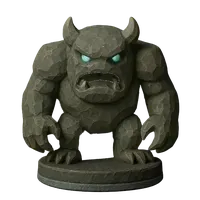
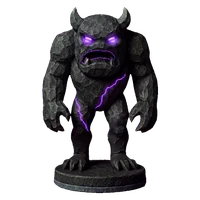
v1.90.29: Fünf Großmeister in neuer Fassung – Koloss, Kanonier, Blutmagd, Seuchenkönig, Eisenfaust
Sie standen am Brett bei 67–73 % der Offiziere und trugen kaum Akzente. Alle
fünf vom Besitzer am 4.10. freigegeben („sonst sind alle gut“), jede erst
gezeigt, dann eingebaut.

- Koloss (67 → 97 %): dunkler Stein, violett leuchtende Risse, beide Augen im
  selben Violett – das rechte ist das gespiegelte linke („genau gleich“). Das
  Freistellen auf Magenta hatte ein Auge und einen Riss im Oberschenkel
  herausgefressen; beides ist im Freisteller nachgezogen.
- Kanonier (71 → 87 %): helles Eisen „wie Eisenfaust“, das Kanonenloch glüht.
  Das Eisen spiegelte den Farbgrund, freistellen.py fraß Sockel und Finger an
  (auf Magenta wie auf Grün) – darum eigene Maske, Stich herausgerechnet,
  9 % über dem Sockel gestreckt.
- Blutmagd (68 → 93 %): dieselbe rote Schlange, aufgerichtet („darf nicht
  aussehen wie ein Mensch“), 10 % gestreckt.
- Seuchenkönig (73 → 95 %): Kapuzengestalt statt Schnabelschlange – kein
  Gesicht, nur grüne Augen, brauner zerfetzter Mantel, Stab. Sechs Anläufe;
  getragen hat erst der mit UNSEREM MAGIER als Vorlage („schau dir mal die
  Figuren an wie sie sind … so muss es werden“). Mehrere Änderungen in einem
  Auftrag hatten den Stil jedes Mal zerstört.
- Eisenfaust (68 → 100 %): aufrecht, Faust aus Eisen, Körper wie glühendes
  Metall.

Akzente folgen der Figur (Kartenhintergrund): Koloss #94a3b8 → #a855f7,
Kanonier #ffd166 → #a3adb8. Sockel einzeln gemessen; bei Kanonier (50) und
[…]

diff --git a/src/content/bosses.js b/src/content/bosses.js
@@ -124,7 +124,7 @@ export const BOSSES = [
      und der Waechter (b01, alle acht Richtungen) bleibt klar der andere. */
   B("b06", "Das Bollwerk",     "The Bulwark",     "golem",   "#9aa5b7", 21, 3, { slides: ORTHO, range: 1 }, { flavorDe: "Man baute es, um etwas fernzuhalten. Niemand weiß mehr, was — es selbst weiß es noch.", flavorEn: "It was built to keep something out. No one remembers what — it still does.", abilities: ["steinhaut", "widerhall", "unsterblich", "schrecken"] }),  // 18->11: Kapitel-I-Grenze (12 Schlaege atk-2)
   B("b07", "Der Geist",        "The Ghost",       "wraith",  "#7dd3fc",  15, 9, { leaps: RING2 }, { flavorDe: "Er ist der Rest eines Eides, der nicht sterben durfte, ehe er erfüllt war.", flavorEn: "He is the remnant of an oath that was not allowed to die before it was kept.", abilities: ["blenden"] }),  // Glaskanone, jetzt fluechtig
-  B("b08", "Kanonier",         "Cannoneer",       "golem",   "#ffd166", 16, 8, { slides: ORTHO, range: 3 }, { flavorDe: "Er zählt bis drei und die Mauer fällt; er hat nie weiter zählen müssen.", flavorEn: "He counts to three and the wall falls; he has never needed to count further.", aura: { type: "courtHp", n: 2 }, abilities: ["wegelagerei", "steinhaut", "schrecken", "blenden", "widerhall"] }),  // 10->9
+  B("b08", "Kanonier",         "Cannoneer",       "golem",   "#a3adb8", 16, 8, { slides: ORTHO, range: 3 }, { flavorDe: "Er zählt bis drei und die Mauer fällt; er hat nie weiter zählen müssen.", flavorEn: "He counts to three and the wall falls; he has never needed to count further.", aura: { type: "courtHp", n: 2 }, abilities: ["wegelagerei", "steinhaut", "schrecken", "blenden", "widerhall"] }),  // 10->9
   B("b09", "Skorpion",         "Scorpion",        "serpent", "#c9a24a",  16, 8, { leaps: [...sym(2, 2), ...ORTHO] }, { flavorDe: "Sein Stich schmerzt nicht sofort — das ist das Heimtückische daran.", flavorEn: "His sting does not hurt at once — that is the treachery of it.", abilities: ["gift", "aderlass", "schrecken"] }),
   B("b10", "Doppelritter",     "Twin Knight",     "beast",   "#3d9bff", 19, 5, { leaps: [...KNIGHT, ...KING] }, { flavorDe: "Zwei Köpfe, ein Wille: Wo einer täuscht, beißt der andere.", flavorEn: "Two heads, one will: where one feints, the other bites.", aura: { type: "wardAdj" }, abilities: ["wegelagerei", "blenden", "aderlass"] }),
   B("b11", "Die Flüsterin",    "The Whisperer",   "wraith",  "#c4b5fd",  20, 4, { slides: KING, range: 1, spawn: { max: 1 } }, { flavorDe: "Sie spricht mit dem Riss, und der Riss antwortet in Dingen, die dann geschehen.", flavorEn: "She speaks with the rift, and the rift replies in things that then come to pass.", abilities: ["geistwandel", "gift"] }),  // spawn 3->2: Blink + Brut kombinierte auf +19 Feldwirkung; HP-Senkung war wirkungslos (sie steht hinten), die Brut ist der Hebel
@@ -142,7 +142,7 @@ export const BOSSES = [
      Flaechen tragen die doppelte Leuchtdichte (umfaerben.py ... 1.0 2.0),
      Figurfarbe nachgemessen #2f439e. */
   B("b13", "Brandstifter",     "Firestarter",     "serpent", "#ff5a1f",  14, 10, { slides: DIAG }, { flavorDe: "Er sammelt keine Beute; er hinterlässt nur Asche, ordentlich verteilt.", flavorEn: "He gathers no spoils; he leaves only ash, evenly spread.", abilities: ["aderlass", "gift"] }),  // scharf, aber glas
-  B("b14", "Der Koloss",       "The Colossus",    "golem",   "#94a3b8", 21, 3, { slides: ORTHO, range: 2, leaps: DIAG }, { flavorDe: "Er trägt die Rüstung nicht — er ist sie, bis hinunter zum Herzen aus Stein.", flavorEn: "He does not wear the armour — he is it, down to the heart of stone.", aura: { type: "grant", id: "bulwark" }, abilities: ["steinhaut", "unsterblich", "widerhall", "schrecken", "aderlass"] }),  // seine AURA ist die Gabe: Eigenpanzer + Panzer-Aura kaskadierte in der Sim (+77 Feldwirkung)
+  B("b14", "Der Koloss",       "The Colossus",    "golem",   "#a855f7", 21, 3, { slides: ORTHO, range: 2, leaps: DIAG }, { flavorDe: "Er trägt die Rüstung nicht — er ist sie, bis hinunter zum Herzen aus Stein.", flavorEn: "He does not wear the armour — he is it, down to the heart of stone.", aura: { type: "grant", id: "bulwark" }, abilities: ["steinhaut", "unsterblich", "widerhall", "schrecken", "aderlass"] }),  // seine AURA ist die Gabe: Eigenpanzer + Panzer-Aura kaskadierte in der Sim (+77 Feldwirkung)
   B("b15", "Die Sturmklaue",   "The Stormclaw",   "beast",   "#38bdf8",  16, 8, { leaps: [...CAMEL, ...sym(0, 3)] }, { flavorDe: "Sie kommt mit dem Wetter und geht mit ihm; dazwischen liegt der Schaden.", flavorEn: "She comes with the weather and leaves with it; the damage lies between.", abilities: ["blenden", "wegelagerei"] }),
   B("b16", "Die Blutmagd",     "The Bloodmaid",   "serpent", "#fb7185", 17, 7, { slides: KING, range: 1, leaps: [[0, 2], [0, -2]] }, { flavorDe: "Aus dem Lazarett verschwand erst der Aderlass, dann die Magd. Was der Riss aus ihr machte, windet sich noch immer um sein Werk.", flavorEn: "First the bloodletting vanished from the infirmary, then the maid. What the Rift made of her still coils around its work.", aura: { type: "grant", id: "lifesteal" }, abilities: ["gift", "aderlass", "unsterblich", "schrecken"] }),
   B("b17", "Lanzenmeister",    "Lancemaster",     "tyrant",  "#eab308", 19, 5, { leaps: [...sym(0, 2), ...KING] }, { flavorDe: "Zehntausend Stöße, jeden Morgen; der elfte gilt dir.", flavorEn: "Ten thousand thrusts, every morning; the eleventh is for you.", aura: { type: "wardAdj" }, abilities: ["widerhall", "schrecken", "aderlass", "unsterblich"] }),  // der Feldherr haelt sich

diff --git a/test_ui.jsx b/test_ui.jsx
@@ -239,6 +239,16 @@ const piece = (x = {}) => ({ id: 1, kind: "Q", color: "w", level: 1, abilities: 
        Karte dahinter passt. */
     ok("v1.90.28: der Skorpion traegt sein neues Bild (Teller 46) und einen ockerfarbenen Akzent statt Rosa",
       SB5["boss-b09"].teller === 46 && SB5["boss-b09"].boden === 555 && BOSSES.find((b) => b.id === "b09").accent === "#c9a24a");
+    /* Fuenf Grossmeister (v1.90.29, Besitzer 4.10.: "sonst sind alle gut"):
+       Koloss dunkel mit violetten Rissen, Kanonier aus Eisen, Blutmagd
+       aufgerichtet, Seuchenkoenig als Kapuzengestalt, Eisenfaust in Glut.
+       Vorher standen sie bei 67-73 % der Offiziere. Die Akzente von Koloss
+       und Kanonier folgen der Figur (Kartenhintergrund). */
+    const gm5 = ["boss-b14", "boss-b08", "boss-b16", "boss-b24", "boss-b18"];
+    ok(`v1.90.29: Koloss, Kanonier, Blutmagd, Seuchenkoenig und Eisenfaust stehen bei 85-100 % der Offiziere (${gm5.map((id) => id.slice(5) + " " + monsterAmBrett(id).toFixed(1)).join(", ")}), Teller von Hand bei Kanonier 50 und Eisenfaust 42, Akzente Violett und Stahl`,
+      gm5.every((id) => monsterAmBrett(id) >= 85 && monsterAmBrett(id) <= 100.5 && SB5[id].boden === 555 && SB5[id].oben === 21)
+      && SB5["boss-b08"].teller === 50 && SB5["boss-b18"].teller === 42
+      && BOSSES.find((b) => b.id === "b14").accent === "#a855f7" && BOSSES.find((b) => b.id === "b08").accent === "#a3adb8");
     const vier = ["boss-b15", "boss-b22", "boss-b05", "boss-b13"];
     ok(`v1.90.27: Sturmklaue, Zerreisser, Streuner und Brandstifter stehen bei 75-100 % der Offiziere (${vier.map((id) => id.slice(5) + " " + monsterAmBrett(id).toFixed(1)).join(", ")})`,
       vier.every((id) => monsterAmBrett(id) >= 75 && monsterAmBrett(id) <= 100.5 && SB5[id].boden === 555 && SB5[id].oben === 21));

diff --git a/scripts/messe_tellerkante.py b/scripts/messe_tellerkante.py
@@ -69,7 +69,14 @@ ORDNER = "src/app/ui/assets/painted"
 #             muss weiter runter"): in v1.90.21 stand hier 49 - ich hatte
 #             Boden minus Wandoberkante gerechnet und ry NICHT abgezogen. Das
 #             Band stand 25 px zu hoch, seine Oberkante lag auf den Fuessen.
-HANDWERTE = {"boss-b02": 46, "boss-b22": 48, "gambit-t2": 45, "boss-b25": 24}
+#   boss-b08  (v1.90.29, Kanonier aus Eisen): der Automat meldet 20 - er haelt
+#             die Stufe zwischen Ring und Wand fuer den Knick. Breitenverlauf:
+#             die Wand steht von der unteren Ellipsenmitte (y 514) bis y 463
+#             auf 279-294 px und faellt bei 458 auf 259. Gesetzt auf 50.
+#   boss-b18  (v1.90.29, Eisenfaust in Glut): dasselbe, Automat 10. Die Wand
+#             steht von y 531 bis 491 auf 239-246 px, bei 486 noch 237, bei
+#             481 nur 216. Gesetzt auf 42.
+HANDWERTE = {"boss-b02": 46, "boss-b22": 48, "gambit-t2": 45, "boss-b25": 24, "boss-b08": 50, "boss-b18": 42}
 MASSE = json.load(open("src/app/ui/board/sockelband.json"))
 
 def kante(fid, m):

diff --git a/CLAUDE.md b/CLAUDE.md
@@ -41,8 +41,8 @@ gambitrise.com zeigt darauf).
   pruefe-navigation, pruefe-textfluss, test_layout) lesen den Chromium-Pfad aus
   `PW_CHROMIUM`; ohne die Variable gilt der Pfad des Cloud-Containers. Lokal:
   `npx playwright install chromium` und `PW_CHROMIUM=<Pfad zur chrome-Datei>`.
-- `npm test` — volle Batterie. MUSS **31 Suiten / 2691 Prüfungen** melden
-  (Stand v1.90.28; der Runner stoppt nach der ersten roten Suite, also
+- `npm test` — volle Batterie. MUSS **31 Suiten / 2692 Prüfungen** melden
+  (Stand v1.90.29; der Runner stoppt nach der ersten roten Suite, also
   Suitenzahl prüfen, nicht nur Assertions! **Zählweise seit v1.90.18
   (Audit A74): JEDE Suite der Kette meldet eine RESULT-Zeile** — alle Zeilen
   `RESULT…: N passed` summieren; test_balance meldet zwei, darum stehen im
@@ -468,7 +468,7 @@ Quelltext lesen hat wiederholt getäuscht; gemessen wird am lebenden DOM
   Auswahl-Lichtspektakel.
 - Alles Optionale abschaltbar (Klang, Online).
 
-## Offene Baustellen (Stand v1.90.28, 4.10.2026)
+## Offene Baustellen (Stand v1.90.29, 4.10.2026)
 
 **Einstieg für jede neue Sitzung: `design/CHAT-EINSTIEG-2026-09-27.md`** (zehn
 Minuten, mit dem Startsatz für den Chat), dann **`design/UEBERGABE-2026-09-27.md`** — Stand,
@@ -496,10 +496,18 @@ Hier nur der Überblick:
   als Eingang gibt und nur das Wesen tauschen lässt**; ein freier Auftrag kam
   glatt und „komplett anderer Style“ zurück. Beim Einbau den `accent` in
   `bosses.js` an die neue Farbe angleichen — er färbt den Kartenhintergrund.
-  In Arbeit: die Großmeister;
-  dazu stehen sechs Großmeister nur bei 62–73 % (Doppelritter, Koloss,
-  Eisenfaust, Blutmagd, Kanonier, Seuchenkönig). Runde 3 (nur Akzente): Schleicher, Flüsterin, Brutmutter. Geist
-  und Wandlerin bleiben. · Play-Abzeichen als Datei für die Startseite (A58).
+  **Großmeister (v1.90.29, freigegeben 4.10.):** Koloss, Kanonier, Blutmagd,
+  Seuchenkönig, Eisenfaust stehen jetzt bei 87–100 %. Offen: Doppelritter
+  (Vorschlag bei 84 %, wartet auf das Urteil). Was dabei teuer war: **mehrere
+  Änderungen in EINEM Kontext-Auftrag zerstören den Stil** (Seuchenkönig, sechs
+  Anläufe) — eine Änderung je Auftrag. **Für eine Gestalt „wie unsere Figuren“
+  eine unserer FIGUREN als Eingang nehmen** (der Magier trug den Seuchenkönig;
+  mit Monster- oder freiem Eingang kam es „viel zu detailreich“). **Metall
+  spiegelt den Farbgrund:** auf Magenta wie auf Grün frisst `freistellen.py`
+  dann Sockel und Finger an — eigene Maske (Hintergrund = hochgesättigte
+  Farbe), Stich danach herausrechnen. Magenta frisst außerdem violette Glut
+  (Augen, Risse): nach dem Freistellen nachziehen. Runde 3 (nur Akzente):
+  Schleicher, Flüsterin. Geist und Wandlerin bleiben. · Play-Abzeichen als Datei für die Startseite (A58).
 - **Spiel:** „Die Karte erzählt die Geschichte" (Besitzer 27.9.: **später**) ·
   **Ladeschirm-Feinschliff** (subjektiv, braucht Live-Abnahme).
 - **Audit offen:** A8-Rest (Befehlsliste in der Halle nachspielen — braucht den

diff --git a/CHANGELOG.md b/CHANGELOG.md
@@ -1,5 +1,38 @@
 # Changelog - Gambit Rise
 
+## 1.90.29 - Fuenf Grossmeister in neuer Fassung: Koloss, Kanonier, Blutmagd, Seuchenkoenig, Eisenfaust
+
+Sie standen am Brett bei 67-73 % der Offiziere und trugen kaum Akzente. Alle
+fuenf vom Besitzer am 4.10. freigegeben ("sonst sind alle gut"), jede erst
+gezeigt, dann eingebaut:
+
+- **Koloss** (67 -> 97 %): dunkler Stein mit violett leuchtenden Rissen, beide
+  Augen im selben Violett ("genau gleich") - das rechte ist das gespiegelte
+  linke. Das Freistellen auf Magenta hatte ein Auge und einen Riss im
+  Oberschenkel herausgefressen; beides ist im Freisteller nachgezogen.
+- **Kanonier** (71 -> 87 %): ganz aus hellem Eisen "wie Eisenfaust", das
+  Kanonenloch glueht gelb-rot. Das Eisen spiegelte den Magenta-Grund; darum
+  eigene Maske (Hintergrund = hochgesaettigtes Magenta) statt freistellen.py,
+  der Violettstich ist herausgerechnet. 9 % ueber dem Sockel gestreckt.
+- **Blutmagd** (68 -> 93 %): dieselbe rote Schlange, aufgerichtet wie eine
+  Kobra ("darf nicht aussehen wie ein Mensch"), 10 % gestreckt.
+- **Seuchenkoenig** (73 -> 95 %): nicht mehr die Schnabelschlange, sondern eine
+  Kapuzengestalt - kein Gesicht, nur gruene Augen, brauner zerfetzter Mantel,
+  Stab. Sechs Anlaeufe; getragen hat erst der, der UNSEREN MAGIER als Vorlage
+  nahm ("schau dir mal die Figuren an wie sie sind ... so muss es werden"):
+  nur so kamen die grossen kantigen Flaechen. Mantelbraun und grauer Sockel
+  sind gerechnet, 10 % gestreckt.
+- **Eisenfaust** (68 -> 100 %): aufrecht, die Faust aus Eisen, der Koerper wie
+  gluehendes Metall ("Mega gut").
+
+Akzente folgen der Figur (Kartenhintergrund): Koloss #94a3b8 -> #a855f7,
+Kanonier #ffd166 -> #a3adb8. Sockel einzeln gemessen; bei Kanonier (50) und
+Eisenfaust (42) haelt der Automat die Stufe am Ring fuer die Tellerkante -
+Handwerte mit Breitenverlauf in messe_tellerkante.py. Farben nur fuer die fuenf
+uebernommen. Alte Bilder in archiv/ausgemustert/v1.90.29/.
+
+Proben: 31 Suiten / 2692 Pruefungen (vorher 2691).
+
 ## 1.90.28 - Der Skorpion ist ein Skorpion
 
 Besitzer 4.10.: "die Figur sieht ja nicht aus wie ein Skorpion ... mir fehlen

diff --git a/archiv/ausgemustert/v1.90.29/WARUM.md b/archiv/ausgemustert/v1.90.29/WARUM.md
@@ -1,0 +1,8 @@
+# Ausgemustert in v1.90.29
+
+## painted-boss-b14, b08, b16, b24, b18 (+ klein/) — fünf Großmeister in alter Fassung
+
+Koloss, Kanonier, Blutmagd, Seuchenkönig und Eisenfaust standen am Brett bei
+67–73 % der Offiziere und trugen kaum Akzente. Der Besitzer hat am 4.10.2026
+die neuen Fassungen freigegeben („sonst sind alle gut“). Der Seuchenkönig ist
+dabei von der Schnabelschlange zur Kapuzengestalt geworden.
